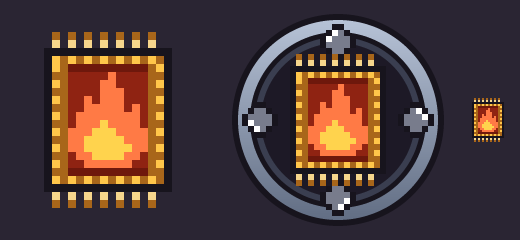
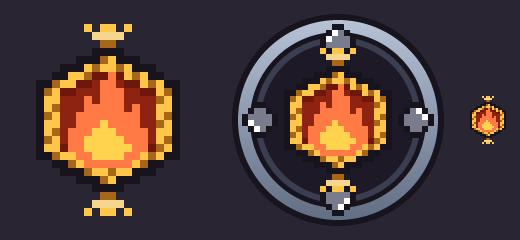
양탄자 아이콘: 육각형 (확인 대기)

diff --git a/개발일지/2026-11-26/이미지.md b/개발일지/2026-11-26/이미지.md
@@ -214,3 +214,7 @@
 ## [디자인] 양탄자 아이콘 불 샘플 (확인 대기)
 - 의도: "양탄자 아이콘 필요해 사선이 아닌 정면 바라보듯. 아이콘이 노출되는곳에 써줘." (기획 전달)
 - 24×24(유물·스킬 아이콘과 같음). 정면 태피스트리, 위·아래 술, 금 테두리, 가운데 불 문양. 도트 직접. img/codex/rugicon/rug_fire.png, 미리보기 rug_fire_preview.png(유물 원 틀 안). 확인 뒤 나머지 8종.
+
+## [디자인] 양탄자 아이콘: 육각형으로 (확인 대기)
+- 의도: "육각형 지켜."
+- 네모 태피스트리 → 전장 판과 같은 방향의 육각형(정면, 눌리지 않게), 위·아래 꼭짓점에 술. img/codex/rugicon/rug_fire.png 24×24. 확인 뒤 나머지 8종.
